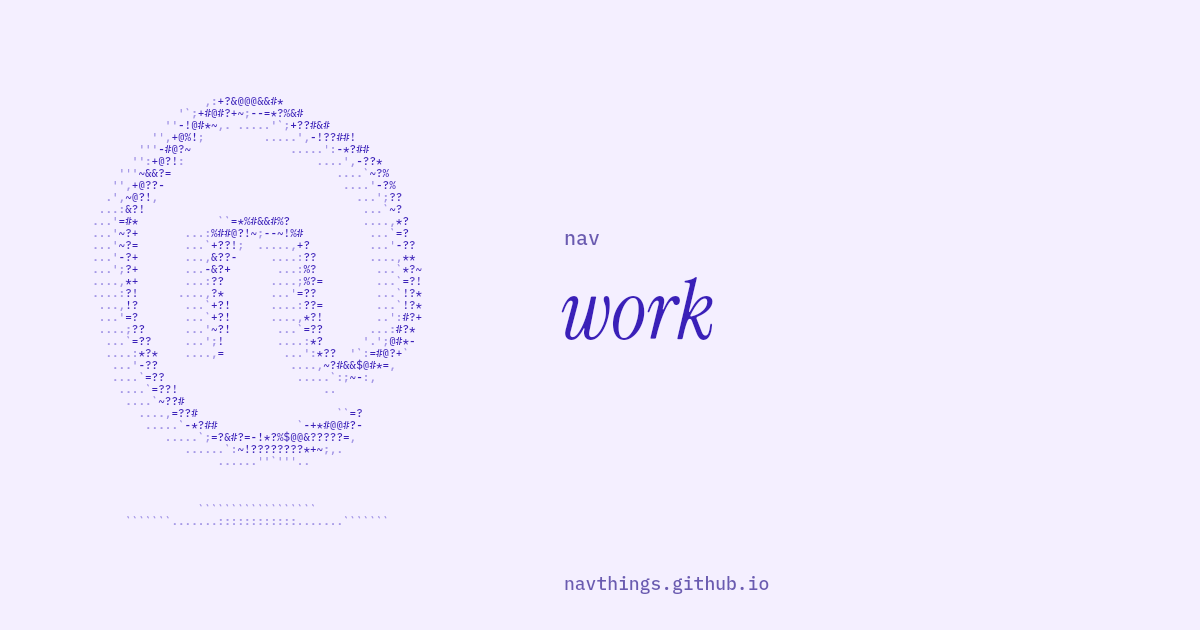
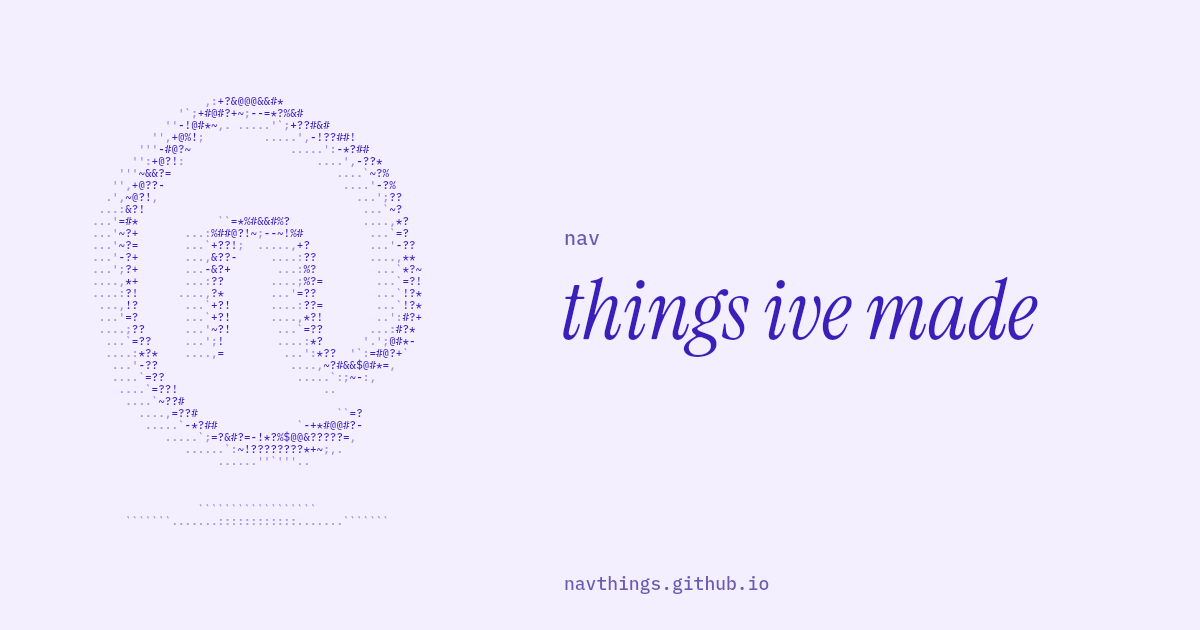
roads on the lists, things ive made page has the builds now

Changed region(s): [[0.4625, 0.4524, 0.8633, 0.573]]

diff --git a/work/index.html b/work/index.html
@@ -15,22 +15,22 @@
     addEventListener("pagereveal", (e) => document.documentElement.classList.add(e.viewTransition ? "vt-in" : "revealed"), { once: true });
   </script>
 
-  <title>work · navthings</title>
+  <title>things ive made · navthings</title>
 
-  <meta name="description" content="case studies: pretraining lilbase and sprout, finetuning lilchat and sprout, a paper on corpus size, and in-browser inference." />
+  <meta name="description" content="things nav has made: a radioactive dice, a rocket that balances itself, a rock paper scissors robot, and the small language models before that." />
   <meta property="og:type" content="website" />
   <meta property="og:site_name" content="navthings" />
-  <meta property="og:title" content="work" />
-  <meta property="og:description" content="case studies: pretraining lilbase and sprout, finetuning lilchat and sprout, a paper on corpus size, and in-browser inference." />
+  <meta property="og:title" content="things ive made" />
+  <meta property="og:description" content="things nav has made: a radioactive dice, a rocket that balances itself, a rock paper scissors robot, and the small language models before that." />
   <meta property="og:url" content="https://navthings.github.io/work/" />
-  <meta property="og:image" content="https://navthings.github.io/assets/og/work.png?v=3" />
+  <meta property="og:image" content="https://navthings.github.io/assets/og/work.png?v=4" />
   <meta property="og:image:width" content="1200" />
   <meta property="og:image:height" content="630" />
   <meta property="og:image:alt" content="the models so far, on navthings" />
   <meta name="twitter:card" content="summary_large_image" />
-  <meta name="twitter:title" content="work" />
-  <meta name="twitter:description" content="case studies: pretraining lilbase and sprout, finetuning lilchat and sprout, a paper on corpus size, and in-browser inference." />
-  <meta name="twitter:image" content="https://navthings.github.io/assets/og/work.png?v=3" />
+  <meta name="twitter:title" content="things ive made" />
+  <meta name="twitter:description" content="things nav has made: a radioactive dice, a rocket that balances itself, a rock paper scissors robot, and the small language models before that." />
+  <meta name="twitter:image" content="https://navthings.github.io/assets/og/work.png?v=4" />
   <link rel="canonical" href="https://navthings.github.io/work/" />
   <meta name="theme-color" content="#f4efff" />
   <link rel="icon" type="image/svg+xml" href="../favicon.svg" />
@@ -53,10 +53,23 @@
   <main class="page" id="main">
     <header class="page-head">
       <a class="page-name" href="../">nav</a>
-      <p class="crumb"><a href="../work/">work</a><span>timeline</span></p>
-      <h1 class="page-title">the models so far</h1>
-      <p class="lede">in the order i made them, starting with a transformer that only knew one sentence. the dots grow with the number of parameters. the whole thing took 29 days.</p>
+      <p class="crumb"><span>things ive made</span></p>
+      <h1 class="page-title" style="view-transition-name: title">things ive made</h1>
+      <p class="lede">newest first. most of it lives on <a href="https://github.com/navthings" target="_blank" rel="noopener">github</a>, and the small language models i trained before all this are further down.</p>
     </header>
+
+    <ul class="list builds">
+        <li><a class="row" href="https://github.com/navthings/dice-of-god" target="_blank" rel="noopener"><span class="t"><b>dice of god</b> dice that roll from radioactive decay</span><span class="m">nov</span></a></li>
+        <li><a class="row" href="https://github.com/navthings/liltube" target="_blank" rel="noopener"><span class="t"><b>liltube</b> youtube with only the good channels</span><span class="m">nov</span></a></li>
+        <li><a class="row" href="https://github.com/navthings/lilalt" target="_blank" rel="noopener"><span class="t"><b>lilalt</b> beeps your rockets max height after it lands</span><span class="m">nov</span></a></li>
+        <li><a class="row" href="https://github.com/navthings/lilpid" target="_blank" rel="noopener"><span class="t"><b>liltvc</b> a rocket that balances itself on a stand</span><span class="m">nov</span></a></li>
+        <li><a class="row" href="https://github.com/navthings/airgpt" target="_blank" rel="noopener"><span class="t"><b>airgpt</b> train a chatbot from scratch on a mac</span><span class="m">oct</span></a></li>
+        <li><a class="row" href="https://github.com/navthings/babel" target="_blank" rel="noopener"><span class="t"><b>babel</b> my own library of babel, mining it for real english</span><span class="m">oct</span></a></li>
+        <li><a class="row" href="https://github.com/navthings/lilrps" target="_blank" rel="noopener"><span class="t"><b>lilrps</b> rock paper scissors robot that reads your hand early</span><span class="m">oct</span></a></li>
+    </ul>
+
+    <h2 class="sub" id="models">the models so far</h2>
+    <p class="lede">in the order i made them, starting with a transformer that only knew one sentence. the dots grow with the number of parameters. the whole thing took 29 days.</p>
 
     <ol class="tl" role="list">
         <li class="tl-line" aria-hidden="true"><span class="tl-fill"></span></li>

diff --git a/assets/page.css b/assets/page.css
@@ -1197,3 +1197,87 @@ pre,
     font-size: 42px;
   }
 }
+
+/* mini motorways: hovering a row lays a road under it and a tiny car drives to the end, then back */
+
+.list .row {
+  position: relative;
+  padding: 8px 0 14px;
+}
+
+.list .row::after,
+.list .row::before {
+  content: "";
+  position: absolute;
+  bottom: 3px;
+  pointer-events: none;
+}
+
+.list .row::after {
+  left: 0;
+  right: 0;
+  height: 6px;
+  border-radius: 3px;
+  background: var(--ink-4);
+  clip-path: inset(0 100% 0 0 round 3px);
+  transition: clip-path 0.4s var(--ease) 0.5s;
+}
+
+.list .row::before {
+  z-index: 1;
+  left: 1px;
+  bottom: 4px;
+  width: 11px;
+  height: 4px;
+  border-radius: 1.5px;
+  background: var(--accent);
+  opacity: 0;
+  transition: left 0.55s cubic-bezier(0.5, 0, 0.3, 1), opacity 0.15s ease 0.5s;
+}
+
+@media (hover: hover) {
+  .list .row:hover::after,
+  .list .row:focus-visible::after {
+    clip-path: inset(0 0 0 0 round 3px);
+    transition: clip-path 0.45s var(--ease);
+  }
+
+  .list .row:hover::before,
+  .list .row:focus-visible::before {
+    left: calc(100% - 12px);
+    opacity: 1;
+    transition: left 1s cubic-bezier(0.55, 0, 0.2, 1) 0.28s, opacity 0.12s ease 0.25s;
+  }
+}
+
+.builds .t b {
+  font-weight: 500;
+  color: var(--ink);
+}
+
+.builds .t {
+  color: var(--ink-2);
+}
+
+.lede a {
+  color: var(--ink);
+  text-decoration: underline;
+  text-decoration-color: var(--ink-4);
+  text-underline-offset: 3px;
+}
+
+.lede a:hover {
+  color: var(--accent);
+  text-decoration-color: currentColor;
+  text-decoration-style: wavy;
+}
+
+.sub {
+  margin-top: 72px;
+  font-family: var(--serif);
+  font-style: italic;
+  font-weight: 400;
+  font-size: 34px;
+  line-height: 1.05;
+  color: var(--ink);
+}

diff --git a/work/lilchat.html b/work/lilchat.html
@@ -54,7 +54,7 @@
   <main class="page wide" id="main">
     <header class="page-head">
       <a class="page-name" href="../">nav</a>
-      <p class="crumb"><a href="../work/">work</a><span>finetuning</span><span>sep 2026</span></p>
+      <p class="crumb"><a href="../work/#models">models</a><span>finetuning</span><span>sep 2026</span></p>
       <h1 class="page-title" style="view-transition-name: t-lilchat">lilchat</h1>
       <p class="lede">a base model just continues text. ask it a question and itll probably write 5 more questions instead of answering. lilchat is lilbase after supervised finetuning on conversations, done in mlx in one night.</p>
       <dl class="facts">

diff --git a/work/sprout.html b/work/sprout.html
@@ -54,7 +54,7 @@
   <main class="page wide" id="main">
     <header class="page-head">
       <a class="page-name" href="../">nav</a>
-      <p class="crumb"><a href="../work/">work</a><span>pretraining</span><span>sep 2026</span></p>
+      <p class="crumb"><a href="../work/#models">models</a><span>pretraining</span><span>sep 2026</span></p>
       <h1 class="page-title" style="view-transition-name: t-sprout">sprout</h1>
       <p class="lede">the next base model after lilbase. same recipe, about 1.8x the parameters and 2x the data, on a mix of four datasets instead of one. it finished training on a tpu v5e-8 on sep 27, then got a chat finetune.</p>
       <dl class="facts">

diff --git a/work/corpus-size.html b/work/corpus-size.html
@@ -71,7 +71,7 @@
   <main class="page wide" id="main">
     <header class="page-head">
       <a class="page-name" href="../">nav</a>
-      <p class="crumb"><a href="../work/">work</a><span>research</span><span>sep 2026</span></p>
+      <p class="crumb"><a href="../work/#models">models</a><span>research</span><span>sep 2026</span></p>
       <h1 class="page-title" style="view-transition-name: t-paper">the paper</h1>
       <p class="lede">i wanted to see how much the amount of data actually matters if you keep everything else the same. so i trained the same model four times on more and more of tinystories, and wrote it up.</p>
       <dl class="facts">

diff --git a/work/lilbase.html b/work/lilbase.html
@@ -54,7 +54,7 @@
   <main class="page wide" id="main">
     <header class="page-head">
       <a class="page-name" href="../">nav</a>
-      <p class="crumb"><a href="../work/">work</a><span>pretraining</span><span>sep 2026</span></p>
+      <p class="crumb"><a href="../work/#models">models</a><span>pretraining</span><span>sep 2026</span></p>
       <h1 class="page-title" style="view-transition-name: t-lilbase">lilbase</h1>
       <p class="lede">a 297m param llama style base model, pretrained from scratch in jax on a tpu v5e-8. it read 6.1 billion tokens and beats gpt-2 small on two of three benchmarks.</p>
       <dl class="facts">

diff --git a/work/playground.html b/work/playground.html
@@ -54,7 +54,7 @@
   <main class="page wide" id="main">
     <header class="page-head">
       <a class="page-name" href="../">nav</a>
-      <p class="crumb"><a href="../work/">work</a><span>web</span><span>sep 2026</span></p>
+      <p class="crumb"><a href="../work/#models">models</a><span>web</span><span>sep 2026</span></p>
       <h1 class="page-title" style="view-transition-name: t-playground">playground</h1>
       <p class="lede">i wanted people to be able to try my models without installing anything. so theres a page where they run right in your browser tab, on your own computer.</p>
       <dl class="facts">
